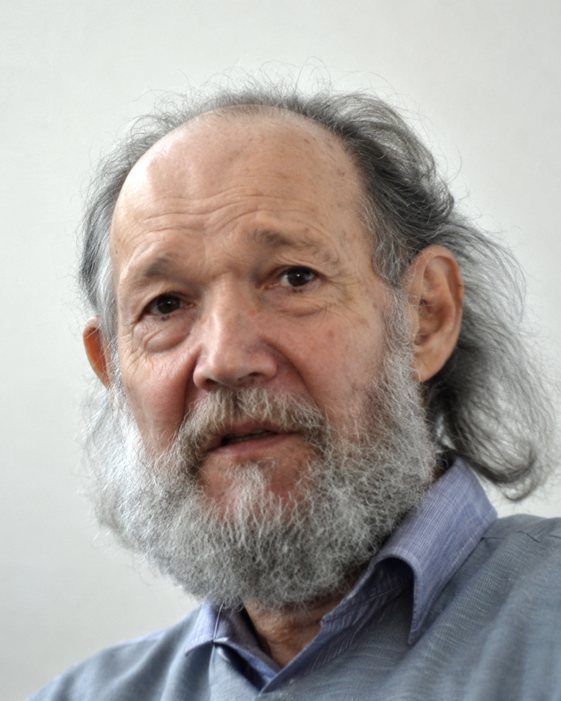
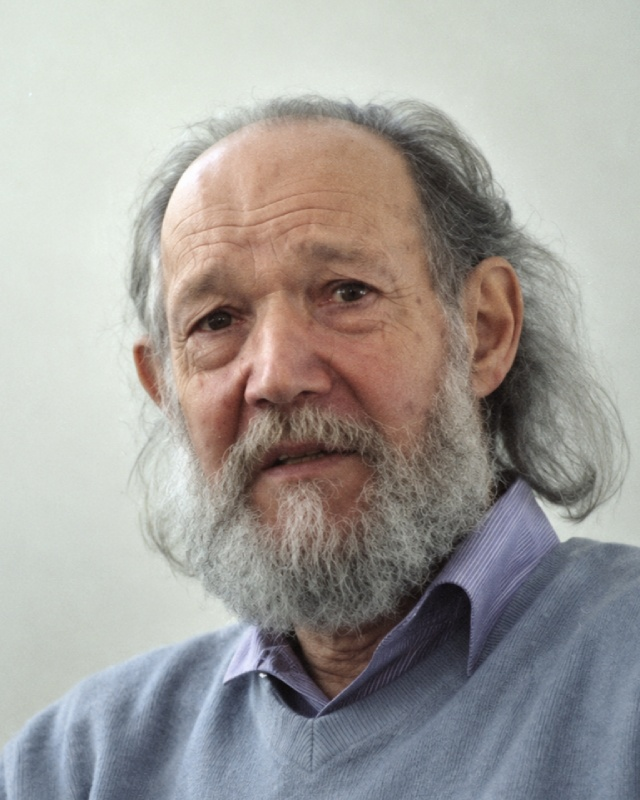
update img - tvůrci

diff --git a/src/utils/popisTvurce.jsx b/src/utils/popisTvurce.jsx
@@ -1,5 +1,5 @@
 // Popis tvůrce: odkazy [text](https://adresa) a značky <b> <strong> <i> <em> <u> <sup> <sub> <br />.
-import React from "react";
+import React, { useEffect, useRef } from "react";
 
 const LINK_RE = /\[([^\]]+)\]\((https?:\/\/[^\s)]+)\)/g;
 const TAG_RE = /<\/?(?:b|strong|i|em|u|sup|sub)\s*>|<br\s*\/?>/gi;
@@ -67,23 +67,86 @@ export function parseZdroje(value) {
 // Odkazy na zdroje oddělené čárkou
 export function renderZdroje(value) {
   const list = parseZdroje(value);
-  return list.map((z, i) => (
-    <React.Fragment key={i}>
+  const groups = new Map();
+  list.forEach((source, index) => {
+    let domain;
+    try {
+      domain = new URL(source.url).hostname.replace(/^www\./i, "");
+    } catch {
+      domain = `${source.label}-${index}`;
+    }
+    const group = groups.get(domain) || [];
+    group.push(source);
+    groups.set(domain, group);
+  });
+
+  return Array.from(groups, ([domain, sources], i) => (
+    <React.Fragment key={domain}>
       {i > 0 && ", "}
-      <a href={z.url} target="_blank" rel="noopener noreferrer nofollow">{z.label}</a>
+      {sources.length === 1 ? (
+        <a href={sources[0].url} target="_blank" rel="noopener noreferrer nofollow">{sources[0].label}</a>
+      ) : (
+        <SourceGroup key={domain} domain={domain} sources={sources} />
+      )}
     </React.Fragment>
   ));
+}
+
+function SourceGroup({ domain, sources }) {
+  const detailsRef = useRef(null);
+
+  useEffect(() => {
+    const details = detailsRef.current;
+    if (!details) return undefined;
+
+    const closeOnOutsideClick = (event) => {
+      if (!details.contains(event.target)) details.open = false;
+    };
+    const closeOnEscape = (event) => {
+      if (event.key === "Escape" && details.open) {
+        details.open = false;
+        details.querySelector("summary")?.focus();
+      }
+    };
+    document.addEventListener("pointerdown", closeOnOutsideClick, true);
+    document.addEventListener("keydown", closeOnEscape);
+    return () => {
+      document.removeEventListener("pointerdown", closeOnOutsideClick, true);
+      document.removeEventListener("keydown", closeOnEscape);
+    };
+  }, []);
+
+  return (
+    <details className="author-source-group" ref={detailsRef}>
+      <summary>{domain} ({sources.length})</summary>
+      <div className="author-source-links">
+        {sources.map((source, index) => {
+          let label = source.label;
+          try {
+            const url = new URL(source.url);
+            const path = `${url.pathname}${url.search}${url.hash}`;
+            if (!source.customLabel) label = `...${path}`;
+          } catch {
+            label = source.url;
+          }
+          return (
+            <a key={`${source.url}-${index}`} href={source.url} title={source.url} target="_blank" rel="noopener noreferrer nofollow">{label}</a>
+          );
+        })}
+      </div>
+    </details>
+  );
 }
 
 // Zdroj textu: buď čistá adresa, nebo [název](adresa)
 export function parseZdroj(value) {
   const v = String(value || "").trim();
   const m = v.match(/^\[([^\]]+)\]\((https?:\/\/[^\s)]+)\)$/);
-  if (m) return { label: m[1], url: m[2] };
+  if (m) return { label: m[1], url: m[2], customLabel: true };
   if (/^https?:\/\//i.test(v)) {
     let label = v;
     try { label = new URL(v).hostname.replace(/^www\./, ""); } catch { /* ponechat adresu */ }
-    return { label, url: v };
+    return { label, url: v, customLabel: false };
   }
   return null;
 }

diff --git a/src/App.css b/src/App.css
@@ -3220,8 +3220,7 @@ img[src*="img/no-image.png"]:not(.variant-img-no-image):not(.variant-img-special
   display: block;
   font-size: 15px;
 }
-.author-pop-dates,
-.author-pop-source {
+.author-pop-dates {
   color: #777;
   font-size: 12px;
 }
@@ -3320,6 +3319,7 @@ img[src*="img/no-image.png"]:not(.variant-img-no-image):not(.variant-img-special
   line-height: 1.2;
   margin: 0 0 4px;
 }
+.author-page-head > .author-pop-role { margin-bottom: 10px; }
 .author-page-photo {
   width: 160px;
   float: left;
@@ -3403,11 +3403,47 @@ img[src*="img/no-image.png"]:not(.variant-img-no-image):not(.variant-img-special
 }
 .author-page-source { color: #777; font-size: 13px; margin: 6px 0 0; }
 .author-page-source a { color: inherit; text-decoration: underline; }
+.author-source-group { display: inline-block; position: relative; }
+.author-source-group summary { cursor: pointer; list-style: none; text-decoration: underline; }
+.author-source-group summary::-webkit-details-marker { display: none; }
+.author-source-group summary::marker { content: ""; }
+.author-source-links {
+  display: none;
+  position: absolute;
+  top: calc(100% + 4px);
+  left: 0;
+  z-index: 3000;
+  box-sizing: border-box;
+  width: max-content;
+  max-width: min(320px, calc(100vw - 32px));
+  padding: 7px 9px;
+  background: #fff;
+  border: 1px solid #d1d5db;
+  border-radius: 6px;
+  box-shadow: 0 4px 14px rgba(0, 0, 0, 0.18);
+  overflow-wrap: anywhere;
+}
+.author-source-group[open] .author-source-links { display: block; }
+.author-source-links a {
+  display: block;
+  position: relative;
+  padding-left: 8px;
+}
+.author-source-links a::before {
+  content: "";
+  position: absolute;
+  top: 0.62em;
+  left: 1px;
+  width: 3px;
+  height: 3px;
+  border-radius: 50%;
+  background: currentColor;
+}
+.author-source-links a + a { margin-top: 4px; }
 .author-pop:not(.is-editing) { display: block; }
 .author-pop:not(.is-editing)::after { content: ""; display: block; clear: both; }
 .author-pop:not(.is-editing) .author-pop-photo { float: left; margin: 0 12px 6px 0; }
 .author-pop:not(.is-editing) .author-pop-info { display: block; }
-.author-pop-source a { color: inherit; text-decoration: underline; }
 .author-edit-form { display: flex; flex-direction: column; gap: 10px; clear: both; width: 100%; }
 .author-edit-form input, .author-edit-form textarea { width: 100%; box-sizing: border-box; }
 .author-edit-form label { display: flex; flex-direction: column; gap: 4px; font-size: 13px; color: #555; }
@@ -3453,6 +3489,7 @@ img[src*="img/no-image.png"]:not(.variant-img-no-image):not(.variant-img-special
 .authors-group .authors-list { margin-top: 12px; }
 .authors-group, .authors-letters { width: 100%; box-sizing: border-box; }
 .author-page-text { white-space: pre-line; }
+.author-page-head > .author-page-text { margin-top: 22px; }
 
 /* Tlačítka na stránce tvůrce ve stejné výšce */
 .author-page .button-row > .back-btn,

diff --git a/src/components/TvurceJmena.jsx b/src/components/TvurceJmena.jsx
@@ -5,7 +5,7 @@ import React, { useState, useEffect, useLayoutEffect, useRef, useCallback } from
 import { Link } from "react-router-dom";
 import { apiFetch, getApiBase } from "../apiBase.js";
 import { emissionToSlug } from "../utils/katalog.js";
-import { plainPopis, parseZdroje, renderZdroje } from "../utils/popisTvurce.jsx";
+import { plainPopis } from "../utils/popisTvurce.jsx";
 import { autoFoto } from "../utils/tvurciFoto.js";
 
 export { autoFoto };
@@ -231,11 +231,6 @@ function AuthorPopover({ name, role, author, onClose }) {
             <Lifespan author={author} />
             <div className="author-pop-role">{shownRoles}</div>
             {author?.popis ? <p>{shortText(plainPopis(author.popis))}</p> : !author && <p className="author-pop-empty">O tomto tvůrci zatím nemáme další informace.</p>}
-            {author?.popis && parseZdroje(author.zdrojUrl).length > 0 && (
-              <div className="author-pop-source">
-                {parseZdroje(author.zdrojUrl).length > 1 ? "Zdroje" : "Zdroj"}: {renderZdroje(author.zdrojUrl)}
-              </div>
-            )}
             <div className="author-pop-actions-row">
               {slugLink && (
                 <Link className="author-pop-link" to={`/tvurce/${slugLink}`}>

diff --git a/src/Tvurce.jsx b/src/Tvurce.jsx
@@ -120,9 +120,9 @@ export default function Tvurce() {
                     <Lifespan author={card} />
                     {card?.popis ? <p className="author-page-text">{renderPopis(card.popis)}</p> : <p className="author-pop-empty">O tomto tvůrci zatím nemáme další informace.</p>}
                     {card?.popis && parseZdroje(card.zdrojUrl).length > 0 && (
-                      <p className="author-page-source">
+                      <div className="author-page-source">
                         {parseZdroje(card.zdrojUrl).length > 1 ? "Zdroje" : "Zdroj"}: {renderZdroje(card.zdrojUrl)}
-                      </p>
+                      </div>
                     )}
                   </>
                 )}
